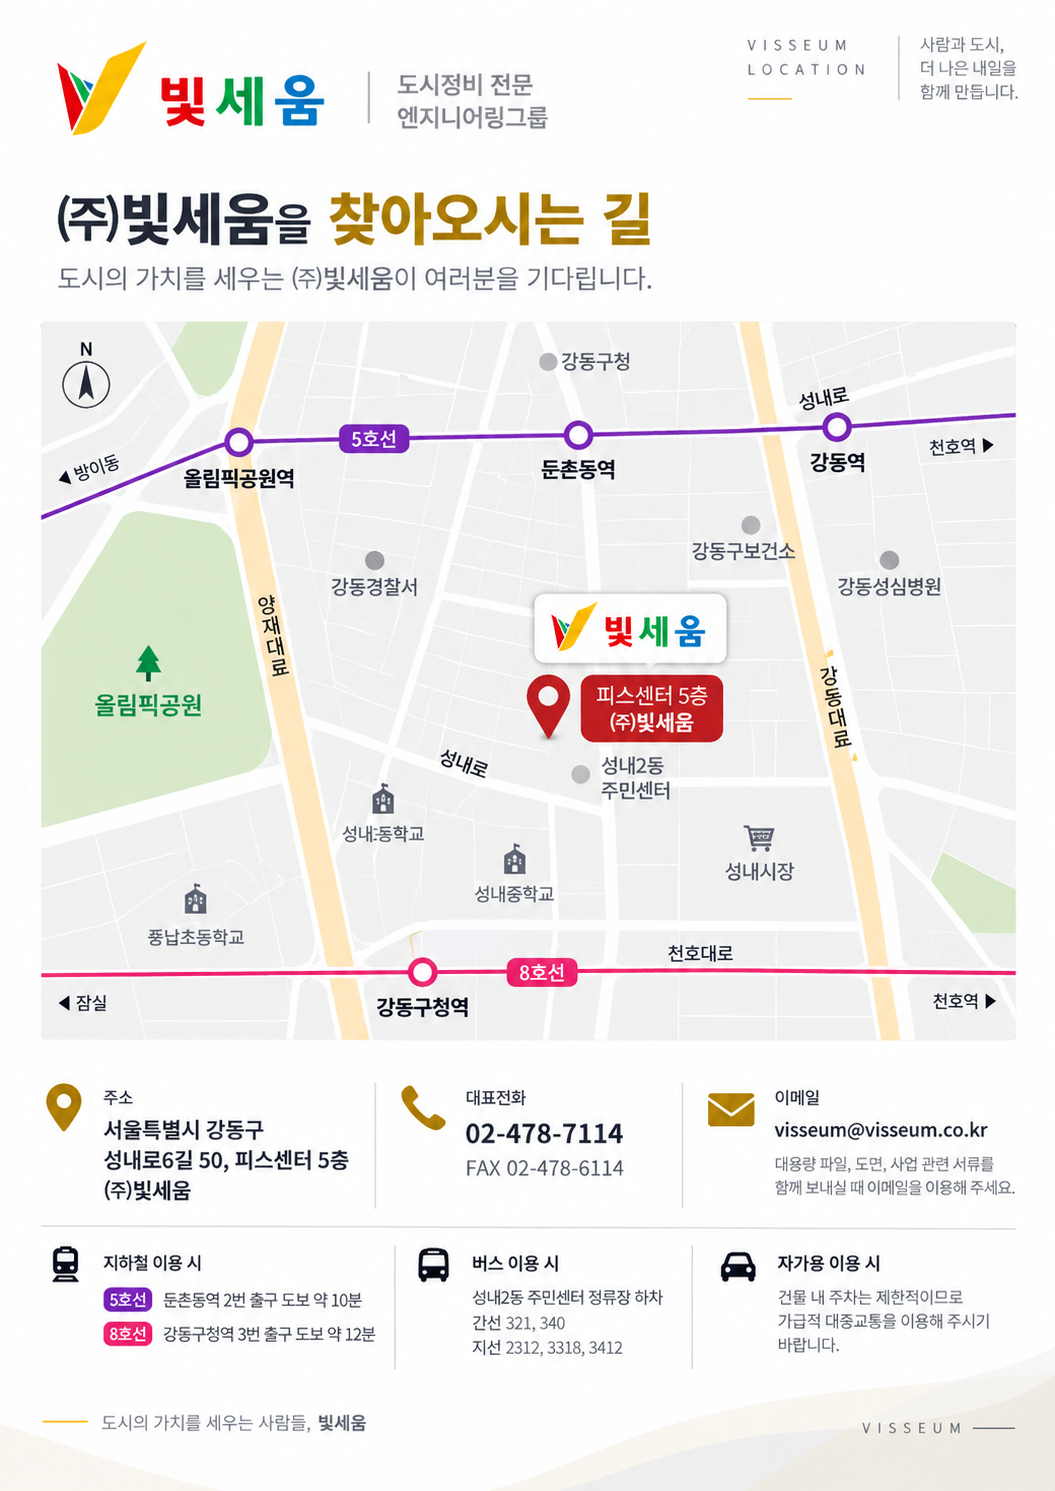
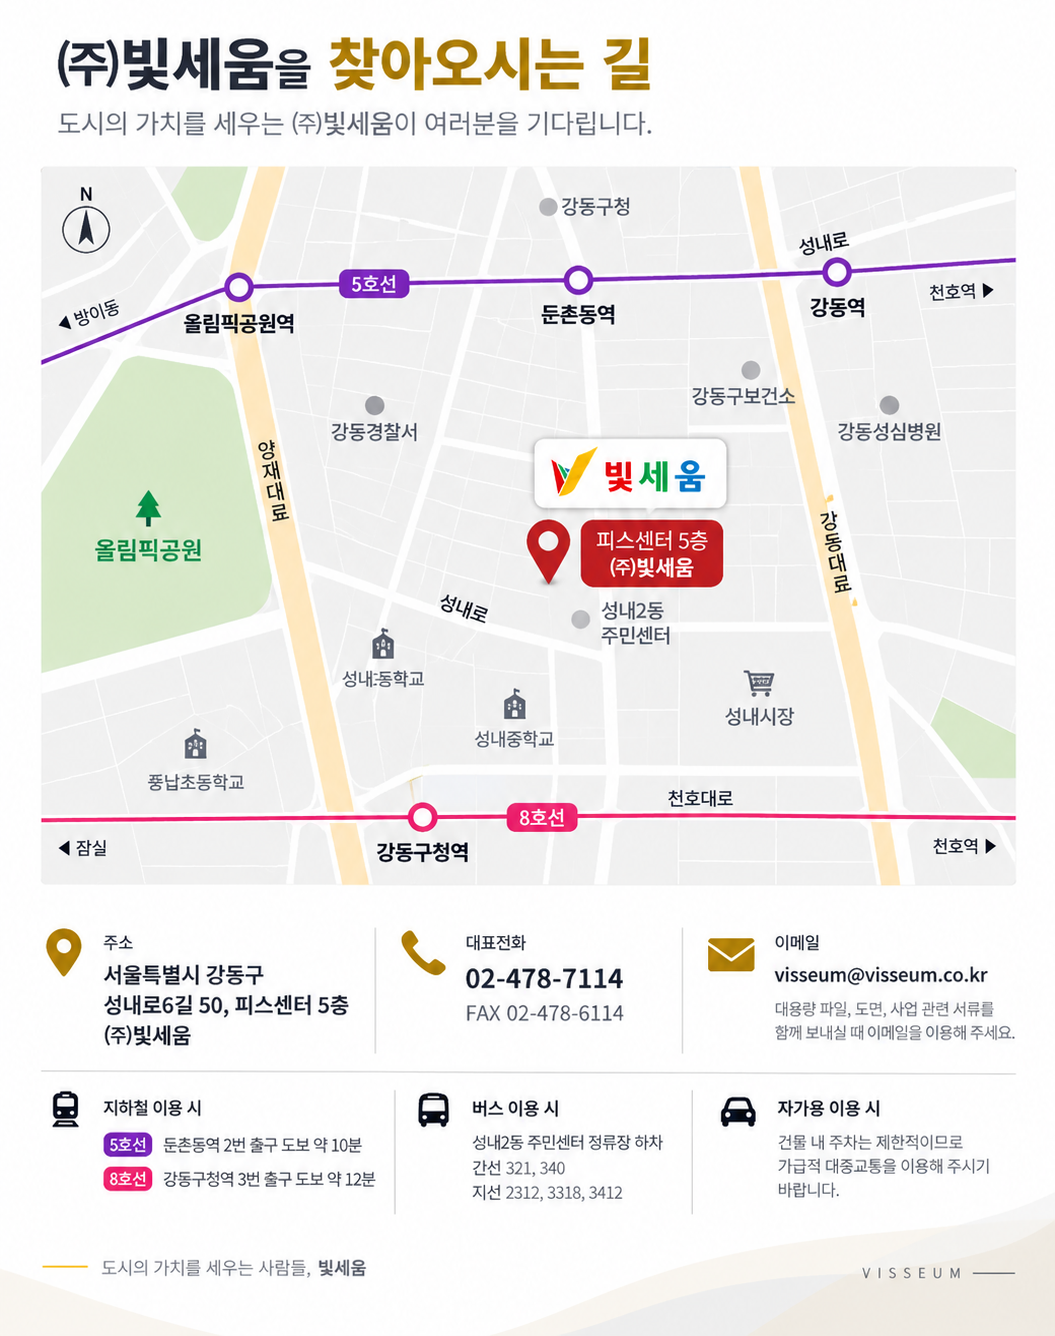
fix: 고객센터 오시는길 안내도 상단 로고 헤더 크롭
방문상담 지도 안내도(visseum_location_poster.png) 상단의 빛세움 컬러 로고 바를
잘라내고 "(주)빛세움을 찾아오시는 길" 타이틀부터 시작하도록 트리밍. 원본은
visseum_location_poster_full_backup.png로 보관.

Claude-Session: https://claude.ai/code/session_01NiEfEjfhjpKvDheX21yB9x

diff --git a/redevelopment/pages/contact.html b/redevelopment/pages/contact.html
@@ -131,7 +131,8 @@
     /* === Unified Hero (3안 패밀리) === */
     .uni-hero {
         background: linear-gradient(135deg, #FFFFFF 0%, #FFF3C4 40%, #FFFFFF 100%);
-        position: relative; overflow: hidden; padding: 20px 0 0; min-height: 360px;
+        position: relative; overflow: hidden; padding: 0; min-height: 360px;
+        display: flex; align-items: center; /* PC: 콘텐츠 수직 중앙 정렬(상하 여백 동일), 대장 지시 2026-09-06 */
     }
     .uni-hero .hero-bg-photo { position: absolute; top: 0; right: 0; width: 58%; height: 100%; z-index: 0; }
     .uni-hero .hero-bg-photo img, .uni-hero .hero-bg-photo video { width: 100%; height: 100%; object-fit: cover; object-position: center 30%; display: block; filter: contrast(1.03) saturate(0.95); }
@@ -163,9 +164,9 @@
             linear-gradient(90deg, rgba(184,134,11,0.015) 1px, transparent 1px);
         background-size: 60px 60px; pointer-events: none; z-index: 1;
     }
-    .uni-hero .inner { position: relative; z-index: 2; display: flex; align-items: flex-start; gap: 48px; }
-    .uni-hero .uh-text { flex: 1; min-width: 0; }
-    .uni-hero .uh-bc { display: flex; align-items: center; gap: 6px; font-size: 13px; color: rgba(10,15,28,0.4); margin-bottom: 13px; }
+    .uni-hero .inner { position: relative; z-index: 2; display: flex; align-items: stretch; gap: 48px; width: 100%; }
+    .uni-hero .uh-text { flex: 1; min-width: 0; position: relative; display: flex; flex-direction: column; justify-content: center; }
+    .uni-hero .uh-bc { display: flex; align-items: center; gap: 6px; font-size: 13px; color: rgba(10,15,28,0.4); position: absolute; top: 0; left: 0; margin-bottom: 0; }
     .uni-hero .uh-bc a { color: rgba(10,15,28,0.4); transition: color 0.2s; }
     .uni-hero .uh-bc a:hover { color: #B8860B; }
     .uni-hero .uh-bc span { color: #B8860B; font-weight: 600; }
@@ -185,7 +186,7 @@
     .uni-hero .uh-card h4 { font-size: 14px; font-weight: 800; color: #FFFFFF; margin-bottom: 4px; }
     .uni-hero .uh-card p { font-size: 11.5px; color: rgba(255,255,255,.65); font-weight: 500; line-height: 1.5; }
     .uni-hero .uh-cards .uh-card:last-child:nth-child(odd) { grid-column: 1 / -1; }
-    @media (max-width: 1024px) { .uni-hero .inner { flex-direction: column; gap: 16px; } .uni-hero .uh-visual { width: 100%; max-width: 420px; } .uni-hero .hero-bg-photo { width: 100%; opacity: 0.25; } .uni-hero .hero-bg-photo::after { background: linear-gradient(180deg, rgba(255,255,255,0.5) 0%, rgba(255,255,255,0.7) 100%); } }
+    @media (max-width: 1024px) { .uni-hero { display: block; padding: 20px 0 0; } .uni-hero .inner { flex-direction: column; align-items: flex-start; gap: 16px; width: auto; } .uni-hero .uh-text { display: block; } .uni-hero .uh-bc { position: static; margin-bottom: 13px; } .uni-hero .uh-visual { width: 100%; max-width: 420px; } .uni-hero .hero-bg-photo { width: 100%; opacity: 0.25; } .uni-hero .hero-bg-photo::after { background: linear-gradient(180deg, rgba(255,255,255,0.5) 0%, rgba(255,255,255,0.7) 100%); } }
     @media (max-width: 600px) { .uni-hero { padding: 16px 0 0; min-height: auto; } .uni-hero .uh-text h1 { font-size: 24px; } .uni-hero .uh-cards { grid-template-columns: repeat(2, 1fr); gap: 10px; width: 100%; margin-bottom: 24px; } .uni-hero .uh-card { width: 100%; height: auto; aspect-ratio: 1 / 1; padding: 16px 14px; border-radius: 16px; } .uni-hero .uh-ci { width: 34px; height: 34px; margin-bottom: 10px; } .uni-hero .uh-card h4 { font-size: 13px; } .uni-hero .uh-card p { font-size: 10.5px; line-height: 1.45; } .uni-hero .hero-bg-photo { opacity: 0.15; } }
 
     </style>
@@ -354,7 +355,7 @@
                     <div><h3>방문 상담 · 찾아오시는 길</h3><span class="ic-sub">대면 상담 예약</span></div>
                 </div>
                 <button type="button" class="ct-location-poster" id="ctLocOpenBtn" aria-label="㈜빛세움 오시는 길 안내도 크게 보기 — 확대 시 전화·주소·이메일·길찾기 링크 이용 가능">
-                    <img src="../jpg/visseum_location_poster.png" alt="㈜빛세움 오시는 길 안내도 — 서울특별시 강동구 성내로6길 50 피스센터 5층, 5호선 둔촌동역·8호선 강동구청역 인근">
+                    <img src="../jpg/visseum_location_poster.png?v=20260906a" alt="㈜빛세움 오시는 길 안내도 — 서울특별시 강동구 성내로6길 50 피스센터 5층, 5호선 둔촌동역·8호선 강동구청역 인근">
                 </button>
                 <button type="button" class="ct-address-copy" onclick="(function(btn){var addr='서울특별시 강동구 성내로6길 50, 피스센터 5층';function done(){if(window.App&&App.toast)App.toast('주소가 복사되었습니다.');var i=btn.querySelector('i');i.className='fa-solid fa-check';setTimeout(function(){i.className='fa-regular fa-copy'},2000)}if(navigator.clipboard&&navigator.clipboard.writeText){navigator.clipboard.writeText(addr).then(done)}else{var ta=document.createElement('textarea');ta.value=addr;document.body.appendChild(ta);ta.select();document.execCommand('copy');document.body.removeChild(ta);done()}})(this)">
                     <i class="fa-regular fa-copy"></i>
@@ -368,7 +369,7 @@
             <div class="ct-loc-modal-overlay" id="ctLocModalOverlay">
                 <div class="ct-loc-modal">
                     <button type="button" class="ct-loc-modal-close" id="ctLocModalClose" aria-label="닫기"><i class="fa-solid fa-xmark"></i></button>
-                    <img src="../jpg/visseum_location_poster.png" alt="㈜빛세움 오시는 길 안내도">
+                    <img src="../jpg/visseum_location_poster.png?v=20260906a" alt="㈜빛세움 오시는 길 안내도">
                     <div class="ct-loc-links">
                         <a class="ct-loc-item" href="tel:0247871144">
                             <div class="li-ic"><i class="fa-solid fa-phone"></i></div>
